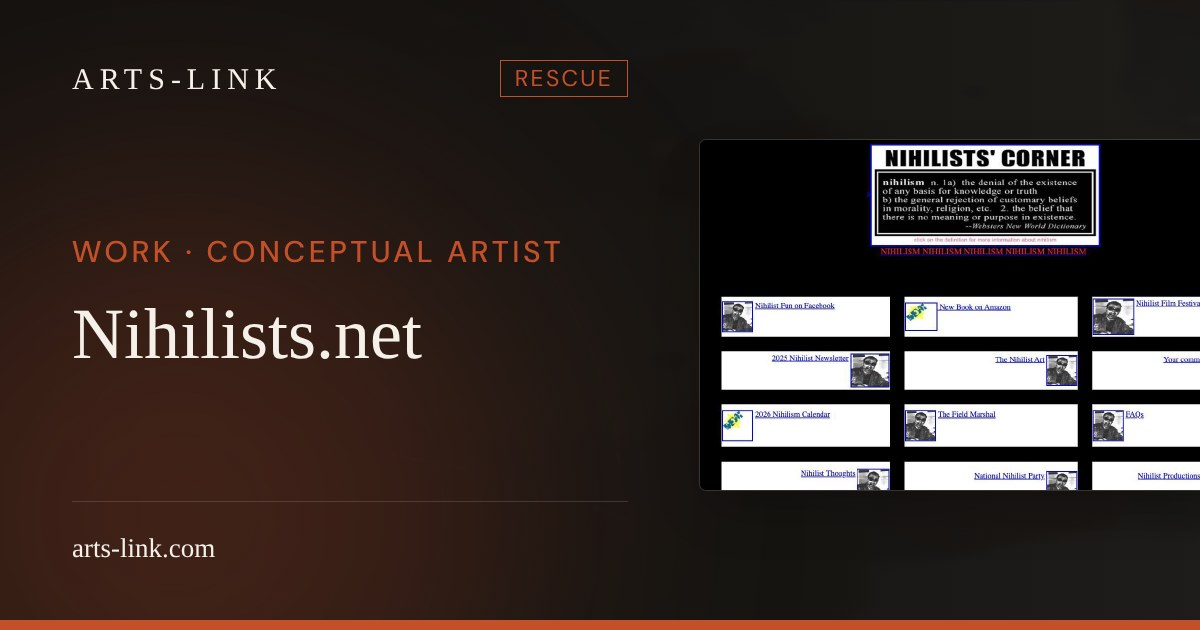
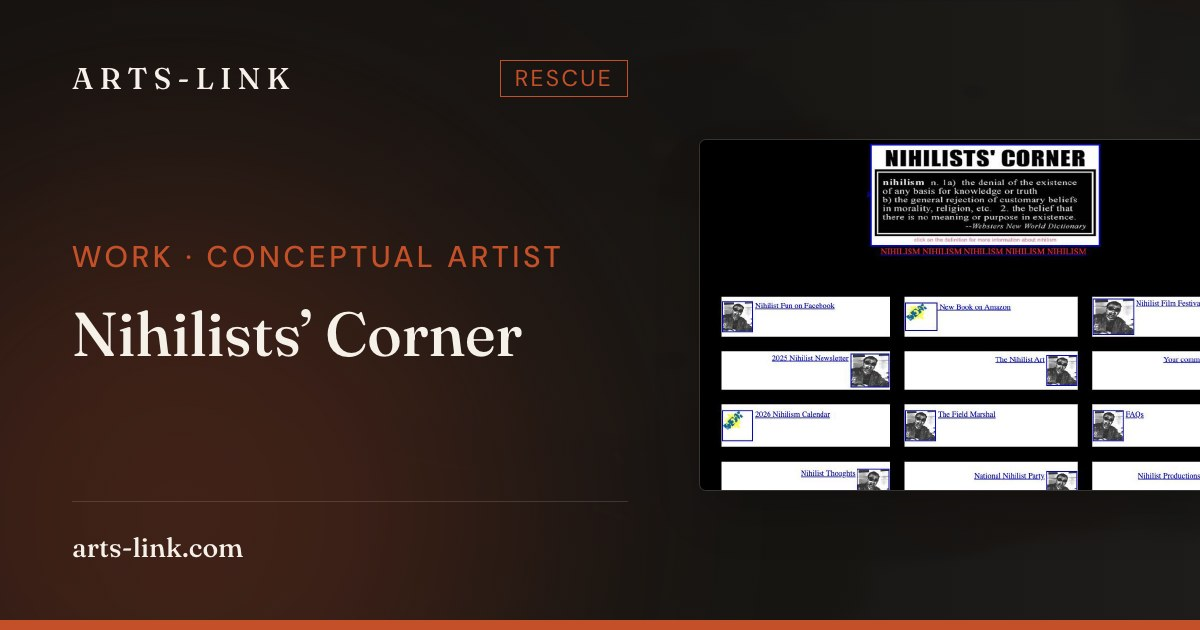
Retitle the nihilists.net work page to Nihilists’ Corner
Regenerates its social card and updates the site-rescue smoke test,
which named the old title.

diff --git a/tests/smoke.test.js b/tests/smoke.test.js
@@ -130,7 +130,7 @@ describe.skipIf(!built)('smoke – site rescue page (public/services/site-rescue
   it('names only the two rescue clients it links to', () => {
     const { document } = readPage('services/site-rescue/index.html').window;
     const text = document.body.textContent;
-    for (const name of ['Alaina Varrone', 'nihilists.net']) {
+    for (const name of ['Alaina Varrone', 'Nihilists’ Corner']) {
       expect(text).toContain(name);
     }
     for (const name of ['Jill Bonovitz', 'Writing SOS']) {

diff --git a/content/work/nihilists-net/index.md b/content/work/nihilists-net/index.md
@@ -1,5 +1,5 @@
 +++
-title = "nihilists.net"
+title = "Nihilists’ Corner"
 date = 2026-09-22
 client_name = "Elisha Shapiro"
 client_type = "conceptual artist"
